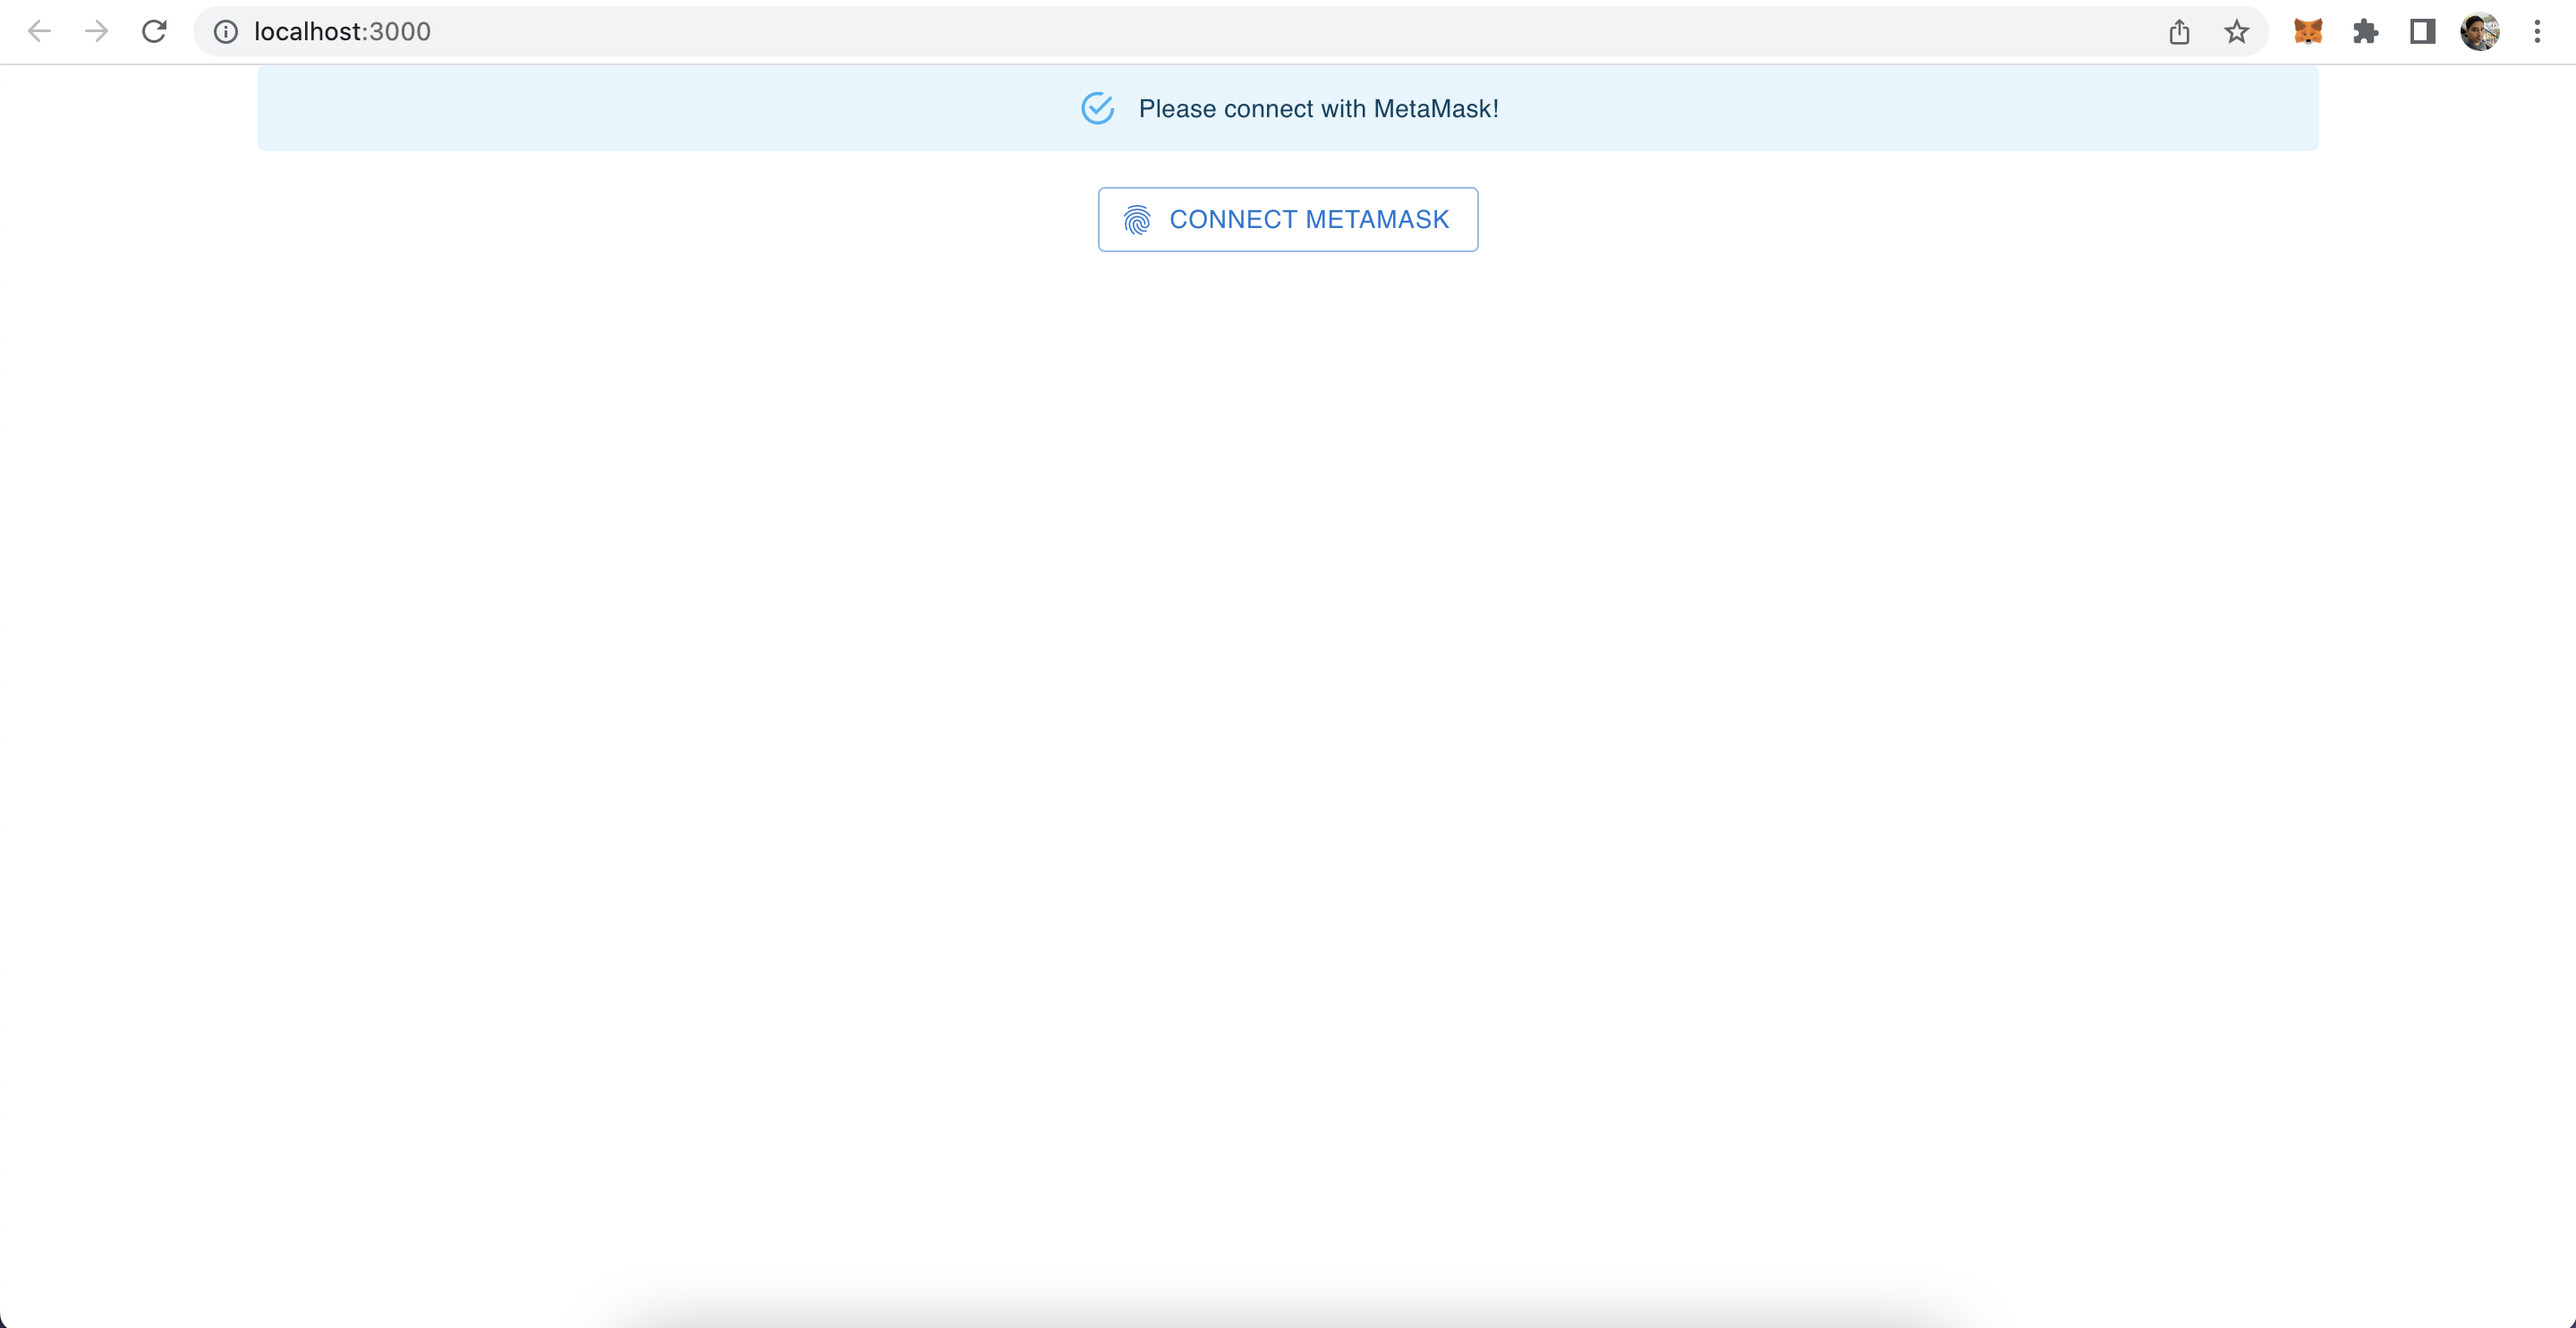
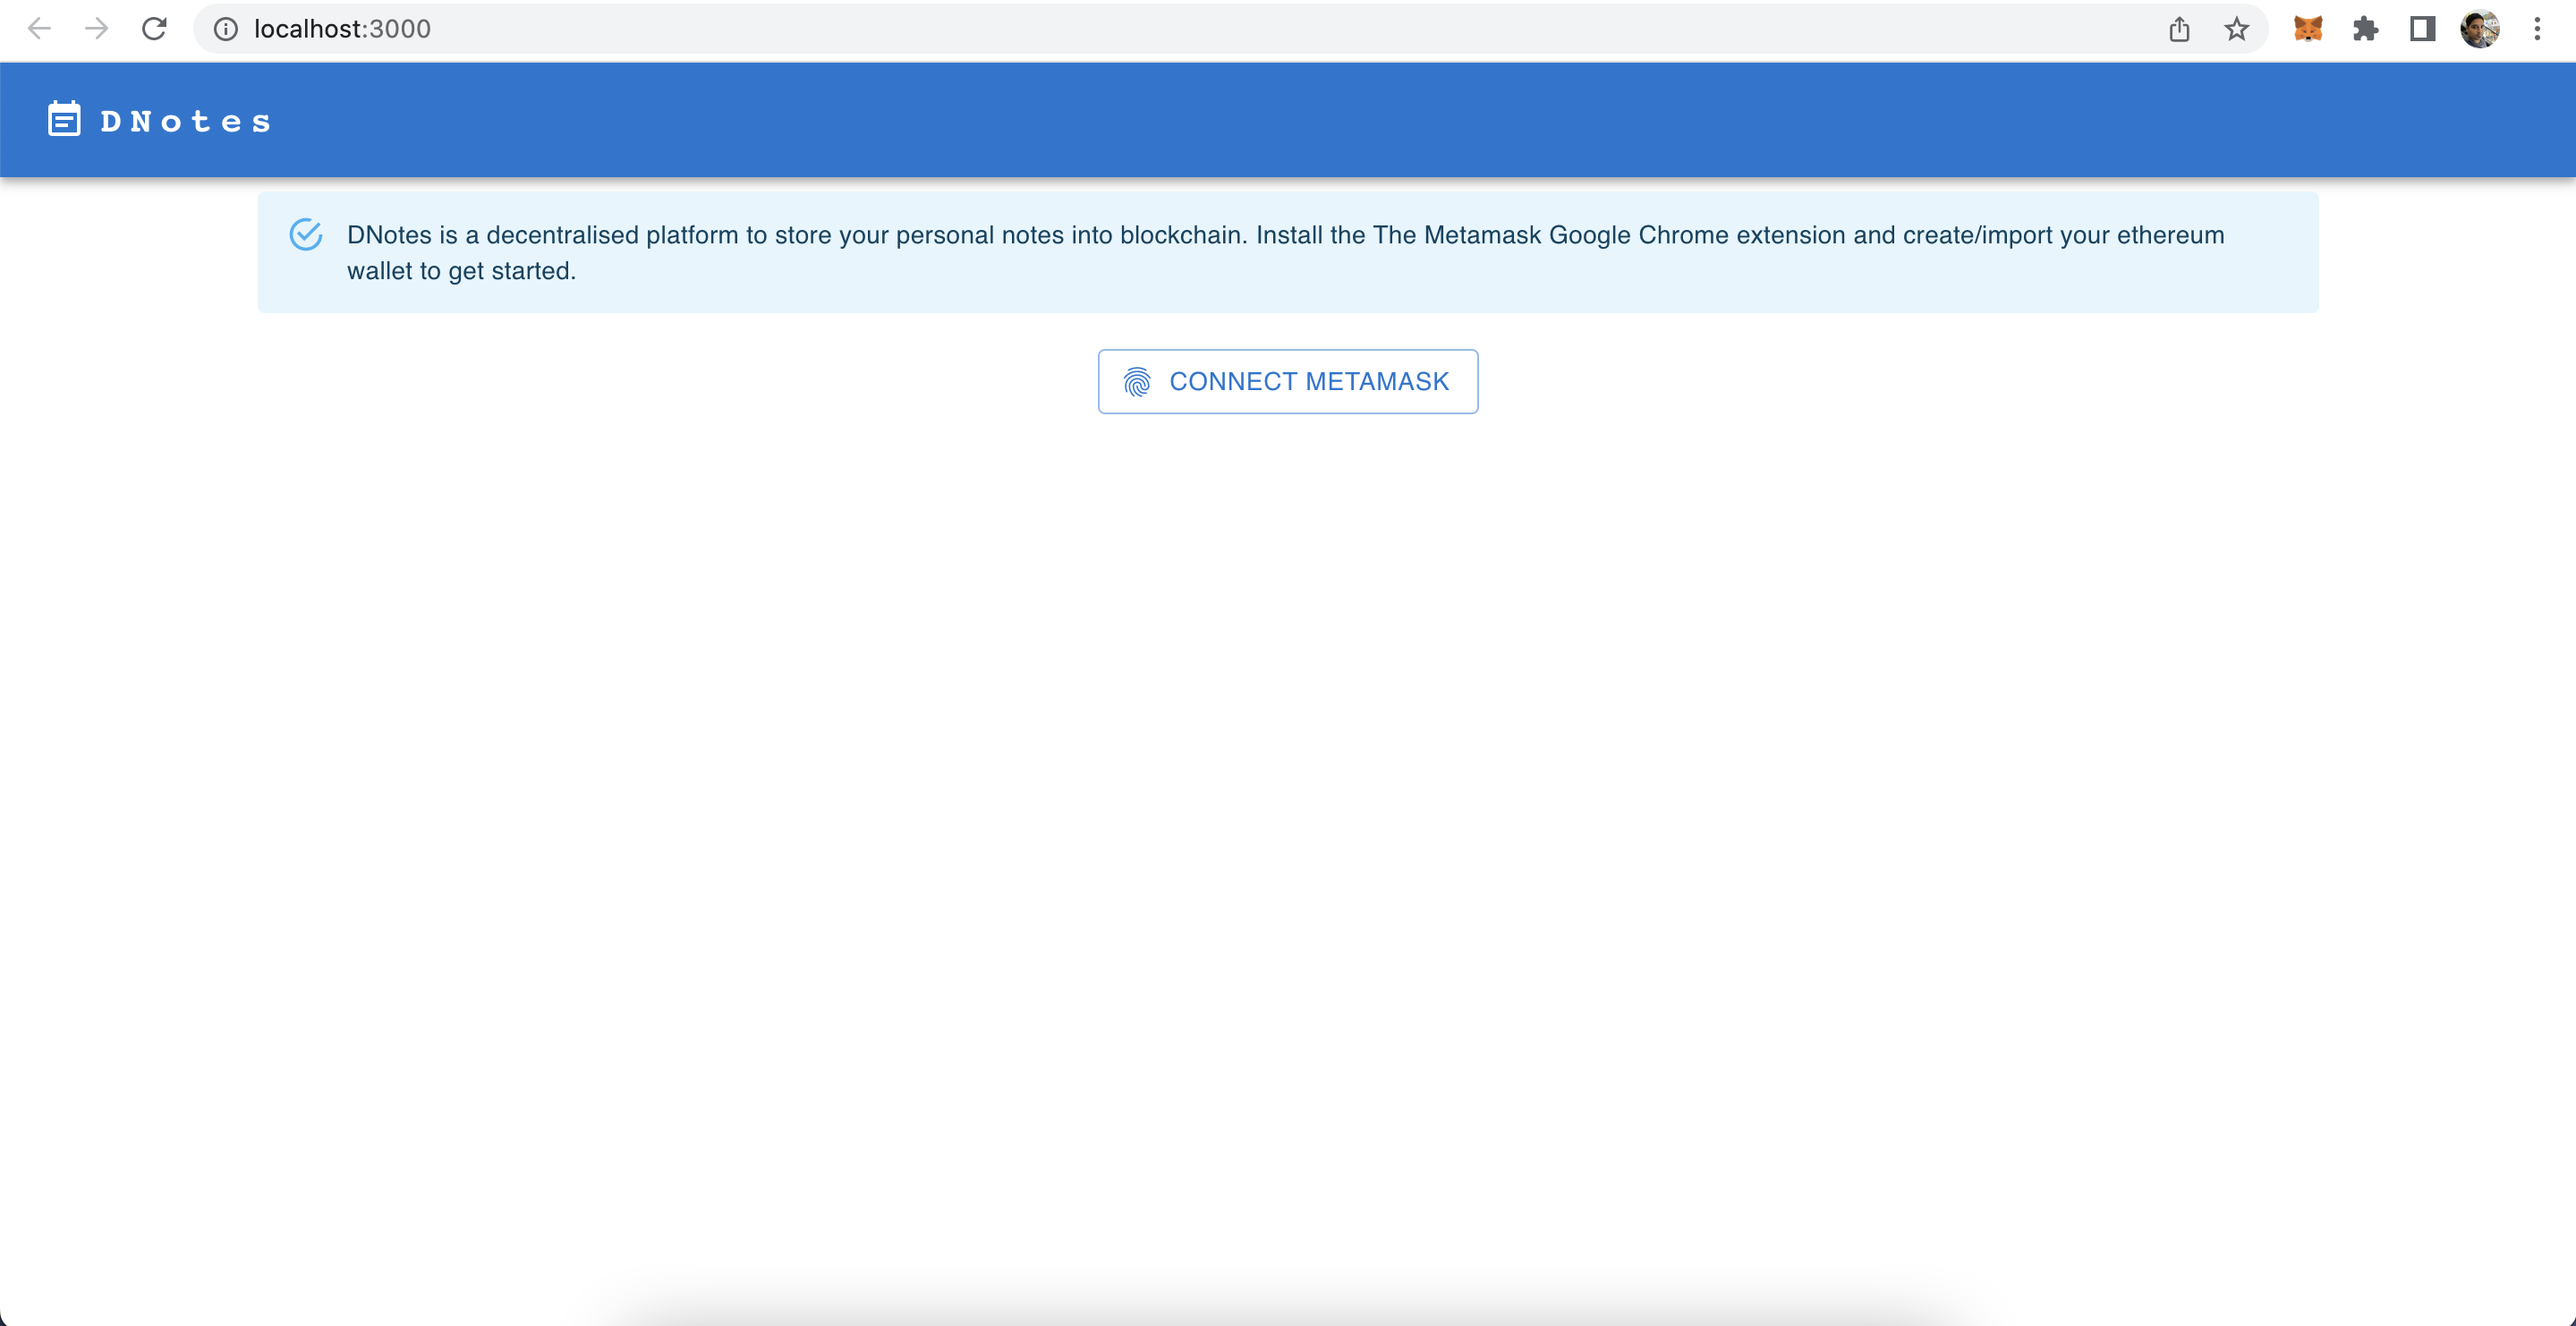
fixes

Changed region(s): [[0.0, 0.0, 1.0, 0.2173], [0.4328, 0.2794, 0.5564, 0.3104]]

diff --git a/client/src/api/index.ts b/client/src/api/index.ts
@@ -2,40 +2,73 @@ import { ethers } from "ethers";
 import { contractAbi, contractAddress } from "../constants";
 import { File, Note, User } from "../interfaces";
 
-const provider = new ethers.providers.Web3Provider((window as any).ethereum);
-const signer = provider.getSigner();
-const contract = new ethers.Contract(contractAddress, contractAbi, signer);
+const getEthereumObject = () => (window as any).ethereum;
 
 export const DNotesApi = {
   getUser: async (): Promise<User> => {
+    const ethereum = getEthereumObject();
+    const provider = new ethers.providers.Web3Provider(ethereum);
+    const signer = provider.getSigner();
+    const contract = new ethers.Contract(contractAddress, contractAbi, signer);
+
     let data = await contract.getUser();
     return data;
   },
   createUser: async (name: string) => {
+    const ethereum = getEthereumObject();
+    const provider = new ethers.providers.Web3Provider(ethereum);
+    const signer = provider.getSigner();
+    const contract = new ethers.Contract(contractAddress, contractAbi, signer);
+
     let txn = await contract.createUser(name);
     await txn.wait();
     return txn;
   },
   addNote: async (title: string, body: string, files: File[]) => {
+    const ethereum = getEthereumObject();
+    const provider = new ethers.providers.Web3Provider(ethereum);
+    const signer = provider.getSigner();
+    const contract = new ethers.Contract(contractAddress, contractAbi, signer);
+
     let txn = await contract.addNote(title, body, files);
     await txn.wait();
     return txn;
   },
   updateNote: async (id: number, title: string, body: string) => {
+    const ethereum = getEthereumObject();
+    const provider = new ethers.providers.Web3Provider(ethereum);
+    const signer = provider.getSigner();
+    const contract = new ethers.Contract(contractAddress, contractAbi, signer);
+
     let txn = await contract.updateNote(id, title, body);
     await txn.wait();
     return txn;
   },
   deleteNote: async (id: number) => {
+    const ethereum = getEthereumObject();
+    const provider = new ethers.providers.Web3Provider(ethereum);
+    const signer = provider.getSigner();
+    const contract = new ethers.Contract(contractAddress, contractAbi, signer);
+
     let txn = await contract.deleteNote(id);
     await txn.wait();
     return txn;
   },
   getNotes: async (): Promise<Note[]> => {
+    const ethereum = getEthereumObject();
+    const provider = new ethers.providers.Web3Provider(ethereum);
+    const signer = provider.getSigner();
+    const contract = new ethers.Contract(contractAddress, contractAbi, signer);
+
     let data = await contract.getNotes();
     return data;
   },
   getNoteFiles: async (id: number): Promise<File[]> => {
+    const ethereum = getEthereumObject();
+    const provider = new ethers.providers.Web3Provider(ethereum);
+    const signer = provider.getSigner();
+    const contract = new ethers.Contract(contractAddress, contractAbi, signer);
+
     let data = await contract.getNoteFiles(id);
     return data;
   },

diff --git a/client/src/components/Block.tsx b/client/src/components/Block.tsx
@@ -1,25 +1,36 @@
-import React from "react";
+import React, { useState } from "react";
 import { ethers } from "ethers";
 import { useAppDispatch } from "../store";
 import { userActions } from "../store/slices/userSlice";
 import { User } from "../interfaces";
 import { DNotesApi } from "../api";
-import { Alert, Button, Container } from "@mui/material";
+import { Alert, Box, Button, Container, Typography } from "@mui/material";
 import { Fingerprint } from "@mui/icons-material";
+import AppbarNormal from "./Layout/AppbarNormal";
 
 const getEthereumObject = () => (window as any).ethereum;
-const ethereum = getEthereumObject();
 
 const Block = () => {
   const dispatch = useAppDispatch();
+  const [isMetaMaskAvailable, setIsMetaMaskAvailable] = useState<boolean | null>(null);
+
   const connectHandler = async () => {
+    const ethereum = getEthereumObject();
     if (ethereum) {
-      const provider = new ethers.providers.Web3Provider(ethereum);
-      const accounts = await provider.send("eth_requestAccounts", []);
-      if (accounts.length > 0) {
-        dispatch(userActions.connect({ key: accounts[0] }));
-        getUser();
+      const isMetaMask = ethereum.isMetaMask;
+      if (isMetaMask) {
+        setIsMetaMaskAvailable(true);
+        const provider = new ethers.providers.Web3Provider(ethereum);
+        const accounts = await provider.send("eth_requestAccounts", []);
+        if (accounts.length > 0) {
+          dispatch(userActions.connect({ key: accounts[0] }));
+          getUser();
+        }
+      } else {
+        setIsMetaMaskAvailable(false);
       }
+    } else {
+      setIsMetaMaskAvailable(false);
     }
   };
 
@@ -30,16 +41,21 @@ const Block = () => {
     }
   };
   return (
-    <Container>
-      <Alert style={{ display: "flex", justifyContent: "center" }} variant="standard" color="info">
-        Please connect with MetaMask!
-      </Alert>
-      <div style={{ margin: "20px auto", textAlign: "center" }}>
-        <Button variant="outlined" startIcon={<Fingerprint />} onClick={connectHandler}>
-          Connect Metamask
-        </Button>
-      </div>
-    </Container>
+    <>
+      <AppbarNormal />
+      <Container>
+        <Box sx={{ m: 1 }} />
+        <Alert style={{ display: "flex", justifyContent: "center" }} variant="standard" color="info">
+          DNotes is a decentralised platform to store your personal notes into blockchain. Install the The Metamask Google Chrome extension and create/import your ethereum wallet to get started.
+        </Alert>
+        <div style={{ margin: "20px auto", textAlign: "center" }}>
+          <Button variant="outlined" startIcon={<Fingerprint />} onClick={connectHandler}>
+            Connect Metamask
+          </Button>
+          {isMetaMaskAvailable === false && <Typography color="primary">MetaMask still not found! Refresh the page</Typography>}
+        </div>
+      </Container>
+    </>
   );
 };
 

diff --git a/client/src/constants/index.ts b/client/src/constants/index.ts
@@ -1,9 +1,17 @@
-export const contractAddress: string = "0x5FbDB2315678afecb367f032d93F642f64180aa3";
+export const contractAddress: string = "0x9fE46736679d2D9a65F0992F2272dE9f3c7fa6e0";
 export const contractAbi = [
   {
-    inputs: [],
-    stateMutability: "nonpayable",
-    type: "constructor",
+    anonymous: false,
+    inputs: [
+      {
+        indexed: false,
+        internalType: "uint8",
+        name: "version",
+        type: "uint8",
+      },
+    ],
+    name: "Initialized",
+    type: "event",
   },
   {
     anonymous: false,
@@ -150,7 +158,7 @@ export const contractAbi = [
             type: "uint256",
           },
         ],
-        internalType: "struct DNotes.File[]",
+        internalType: "struct DNotesV2.File[]",
         name: "_files",
         type: "tuple[]",
       },
@@ -211,7 +219,7 @@ export const contractAbi = [
             type: "uint256",
           },
         ],
-        internalType: "struct DNotes.File[]",
+        internalType: "struct DNotesV2.File[]",
         name: "_files",
         type: "tuple[]",
       },
@@ -337,7 +345,7 @@ export const contractAbi = [
             type: "uint256",
           },
         ],
-        internalType: "struct DNotes.File[]",
+        internalType: "struct DNotesV2.File[]",
         name: "",
         type: "tuple[]",
       },
@@ -377,7 +385,7 @@ export const contractAbi = [
             type: "uint256",
           },
         ],
-        internalType: "struct DNotes.Note[]",
+        internalType: "struct DNotesV2.Note[]",
         name: "",
         type: "tuple[]",
       },
@@ -417,12 +425,19 @@ export const contractAbi = [
             type: "uint256",
           },
         ],
-        internalType: "struct DNotes.User",
+        internalType: "struct DNotesV2.User",
         name: "",
         type: "tuple",
       },
     ],
     stateMutability: "view",
+    type: "function",
+  },
+  {
+    inputs: [],
+    name: "initialize",
+    outputs: [],
+    stateMutability: "nonpayable",
     type: "function",
   },
   {

diff --git a/client/src/components/Signup.tsx b/client/src/components/Signup.tsx
@@ -1,9 +1,10 @@
-import { Alert, Button, Container, TextField } from "@mui/material";
+import { Alert, Box, Button, Container, TextField } from "@mui/material";
 import React, { useRef } from "react";
 import { useSelector } from "react-redux";
 import { DNotesApi } from "../api";
 import { RootState, useAppDispatch } from "../store";
 import { userActions } from "../store/slices/userSlice";
+import AppbarNormal from "./Layout/AppbarNormal";
 
 const Signup = () => {
   const dispatch = useAppDispatch();
@@ -18,18 +19,22 @@ const Signup = () => {
   };
 
   return (
-    <Container>
-      <Alert style={{ display: "flex", justifyContent: "center" }} variant="standard" color="info">
-        Just enter your name and proceed!
-      </Alert>
-      <br />
-      <TextField inputRef={inputRef} required label="Enter Your Name" style={{ width: "100%" }} />
-      <br />
-      <br />
-      <Button variant="outlined" onClick={addUser}>
-        Get Started
-      </Button>
-    </Container>
+    <>
+      <AppbarNormal />
+      <Container>
+        <Box sx={{ m: 1 }} />
+        <Alert style={{ display: "flex", justifyContent: "center" }} variant="standard" color="info">
+          Enter your name below to proceed with one time signup process.
+        </Alert>
+        <br />
+        <TextField inputRef={inputRef} required label="Enter Your Name" style={{ width: "100%" }} />
+        <br />
+        <br />
+        <Button variant="outlined" onClick={addUser}>
+          Get Started
+        </Button>
+      </Container>
+    </>
   );
 };
 

diff --git a/client/src/components/Layout/AppbarNormal.tsx b/client/src/components/Layout/AppbarNormal.tsx
@@ -1,0 +1,35 @@
+import { EventNote } from "@mui/icons-material";
+import { AppBar, Box, Container, Toolbar, Typography } from "@mui/material";
+import React from "react";
+
+const AppbarNormal = () => {
+  return (
+    <AppBar position="static">
+      <Container maxWidth="xl">
+        <Toolbar disableGutters>
+          <EventNote sx={{ display: { xs: "none", md: "flex" }, mr: 1 }} />
+          <Typography
+            variant="h6"
+            noWrap
+            component="a"
+            href="/"
+            sx={{
+              mr: 2,
+              display: { xs: "none", md: "flex" },
+              fontFamily: "monospace",
+              fontWeight: 700,
+              letterSpacing: ".3rem",
+              color: "inherit",
+              textDecoration: "none",
+            }}
+          >
+            DNotes
+          </Typography>
+          <Box sx={{ flexGrow: 1, display: { xs: "none", md: "flex" } }}></Box>
+        </Toolbar>
+      </Container>
+    </AppBar>
+  );
+};
+
+export default AppbarNormal;
